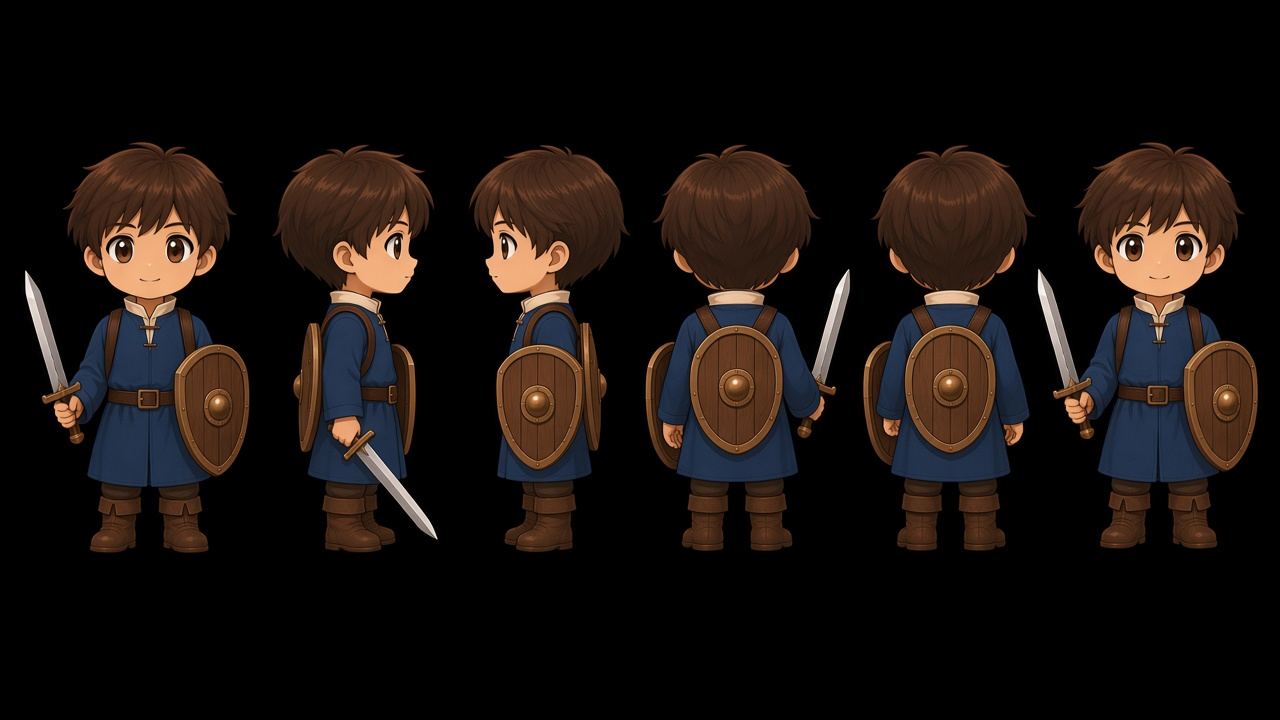
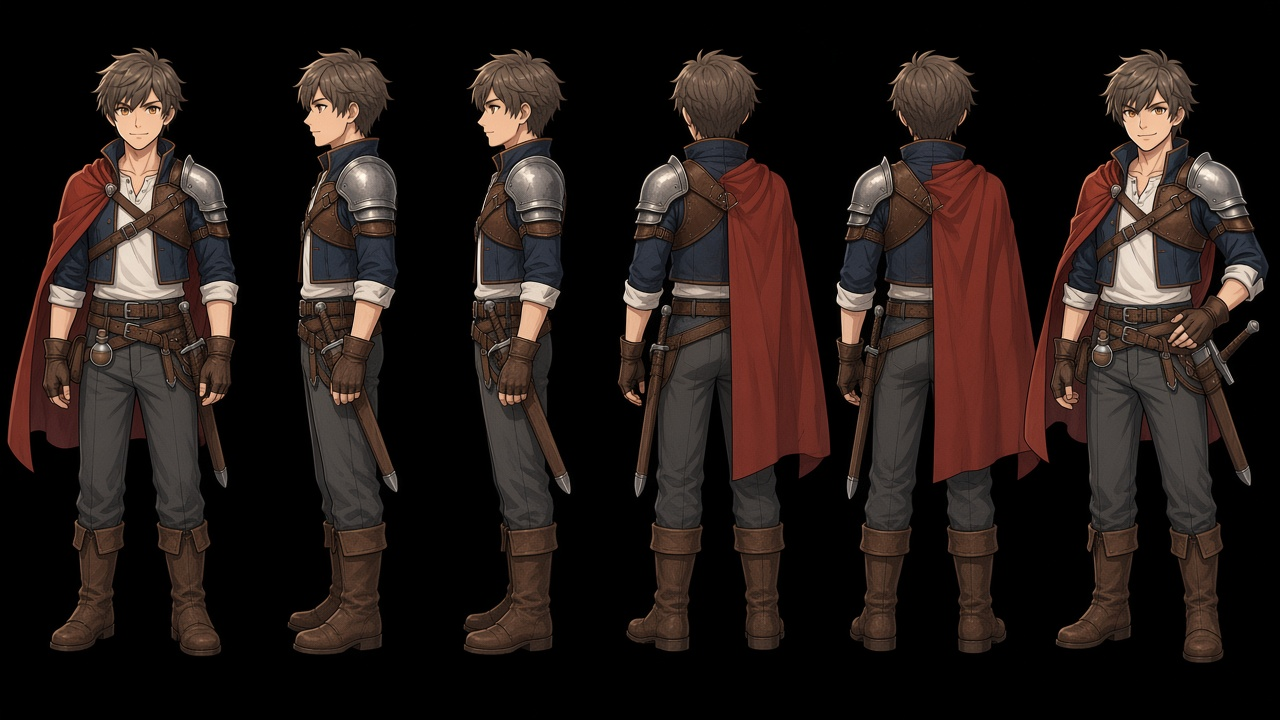
Replace the playable warrior with the caped anime swordsman.

diff --git a/index.html b/index.html
@@ -2852,11 +2852,11 @@
       root.innerHTML = `
         <div class="cast-screen">
           <div class="cast-row">
-            <button type="button" class="cast-mini" data-action="cast-stay" aria-label="${CHARACTER_NAME}"><span class="cast-front"><img src="warrior-f-sheet.jpg?v=2" alt=""></span></button>
+            <button type="button" class="cast-mini" data-action="cast-stay" aria-label="${CHARACTER_NAME}"><span class="cast-front"><img src="warrior-f-sheet.jpg?v=3" alt=""></span></button>
           </div>
           <div class="cast-body">
             <button type="button" class="cast-arrow" data-action="cast-stay" aria-label="前のキャラ">◀</button>
-            <div class="cast-front big"><img src="warrior-f-sheet.jpg?v=2" alt="戦士の真正面"></div>
+            <div class="cast-front big"><img src="warrior-f-sheet.jpg?v=3" alt="戦士の真正面"></div>
             <div class="cast-info">
               <p>初期ジョブ</p>
               <h1>${CHARACTER_NAME}</h1>
@@ -2904,11 +2904,11 @@
           <div class="panel">
             <h2>設定資料</h2>
             <p class="album-meta">絵はここを正とする。ジョブが変わっても、性別は変えない。</p>
-            <h3>戦士・女・赤</h3>
-            <img class="sheet-art" src="warrior-f-sheet.jpg?v=2" alt="女の戦士。真正面、右向き、左向き、斜め後ろ、後ろ、決めポーズ。">
+            <h3>戦士</h3>
+            <img class="sheet-art" src="warrior-f-sheet.jpg?v=3" alt="戦士。真正面、右向き、左向き、斜め後ろ、後ろ、手を腰。">
             <p class="sheet-cap">左から、真正面、右向き、左向き、斜め後ろ、後ろ、決めポーズ。</p>
-            <h3>戦士・男・青</h3>
-            <img class="sheet-art" src="warrior-m-sheet.jpg?v=2" alt="男の戦士。真正面、右向き、左向き、斜め後ろ、後ろ、決めポーズ。">
+            <h3>戦士・同じ絵</h3>
+            <img class="sheet-art" src="warrior-m-sheet.jpg?v=3" alt="戦士。真正面、右向き、左向き、斜め後ろ、後ろ、手を腰。">
             <p class="sheet-cap">左から、真正面、右向き、左向き、斜め後ろ、後ろ、決めポーズ。</p>
             <h3>魔法使い・女・白</h3>
             <img class="sheet-art" src="mage-f-sheet.jpg?v=2" alt="女の魔法使い。真正面、右向き、左向き、斜め後ろ、後ろ、決めポーズ。">
@@ -2917,10 +2917,10 @@
             <img class="sheet-art" src="mage-m-sheet.jpg?v=2" alt="男の魔法使い。真正面、右向き、左向き、斜め後ろ、後ろ、決めポーズ。">
             <p class="sheet-cap">左から、真正面、右向き、左向き、斜め後ろ、後ろ、決めポーズ。</p>
             <div class="sheet-locks">
-              <p><b>体</b>2頭身。四人は別の人物。ジョブチェンジで性別は変えない。</p>
-              <p><b>戦士</b>女は赤、男は青。右手はロングソード。左手は木の盾。背中はリュック。胸の斜めベルトは無い。</p>
-              <p><b>魔法使い</b>女は白、男は黒。杖は同じで、先が一つの渦巻き。戦士の服、剣、盾、リュックは使わない。</p>
-              <p><b>戦闘</b>自分は、女の戦士の斜め後ろ。背中はリュック。敵はその奥。</p>
+              <p><b>体</b>戦士は、アニメのソーシャルゲーム風の青年。魔法使いは、いまの2頭身のまま。</p>
+              <p><b>戦士</b>赤いマント、白いシャツ、紺の胴着、革の胸ベルト、左肩の銀の肩当て、腰の小瓶、左腰の剣。盾とリュックは無い。</p>
+              <p><b>魔法使い</b>女は白、男は黒。杖は同じで、先が一つの渦巻き。戦士の服は使わない。</p>
+              <p><b>戦闘</b>自分は、この戦士の斜め後ろ。赤いマント。敵はその奥。</p>
             </div>
             <h3>タイトル</h3>
             <img class="sheet-art" src="title-party.jpg" alt="タイトル。四人がわいわいしている。">
@@ -3095,7 +3095,7 @@
           const img = new Image();
           img.onload = () => { heroImage = img; resolve(img); };
           img.onerror = () => reject(new Error("hero"));
-          img.src = "hero-shoulder.png?v=6";
+          img.src = "hero-shoulder.png?v=7";
         });
       }
       return heroImageTask;
@@ -3114,7 +3114,7 @@
     }
 
     function heroShoulder() {
-      return `<div class="hero-shoulder"><img class="hero-fig" src="hero-shoulder.png?v=6" alt="戦士"></div>`;
+      return `<div class="hero-shoulder"><img class="hero-fig" src="hero-shoulder.png?v=7" alt="戦士"></div>`;
     }
 
     function startHeroIdle() {
